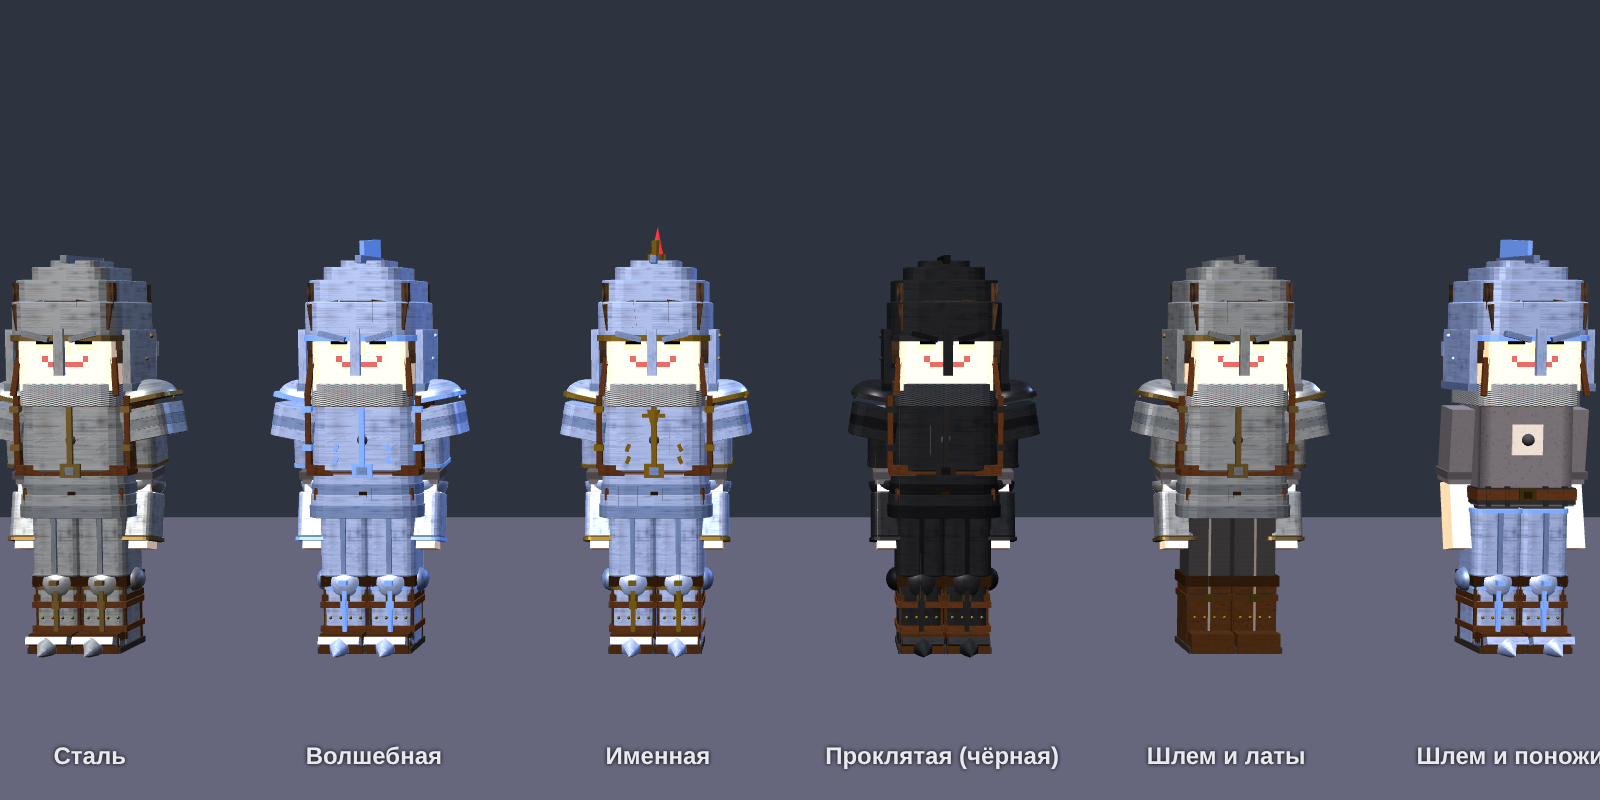
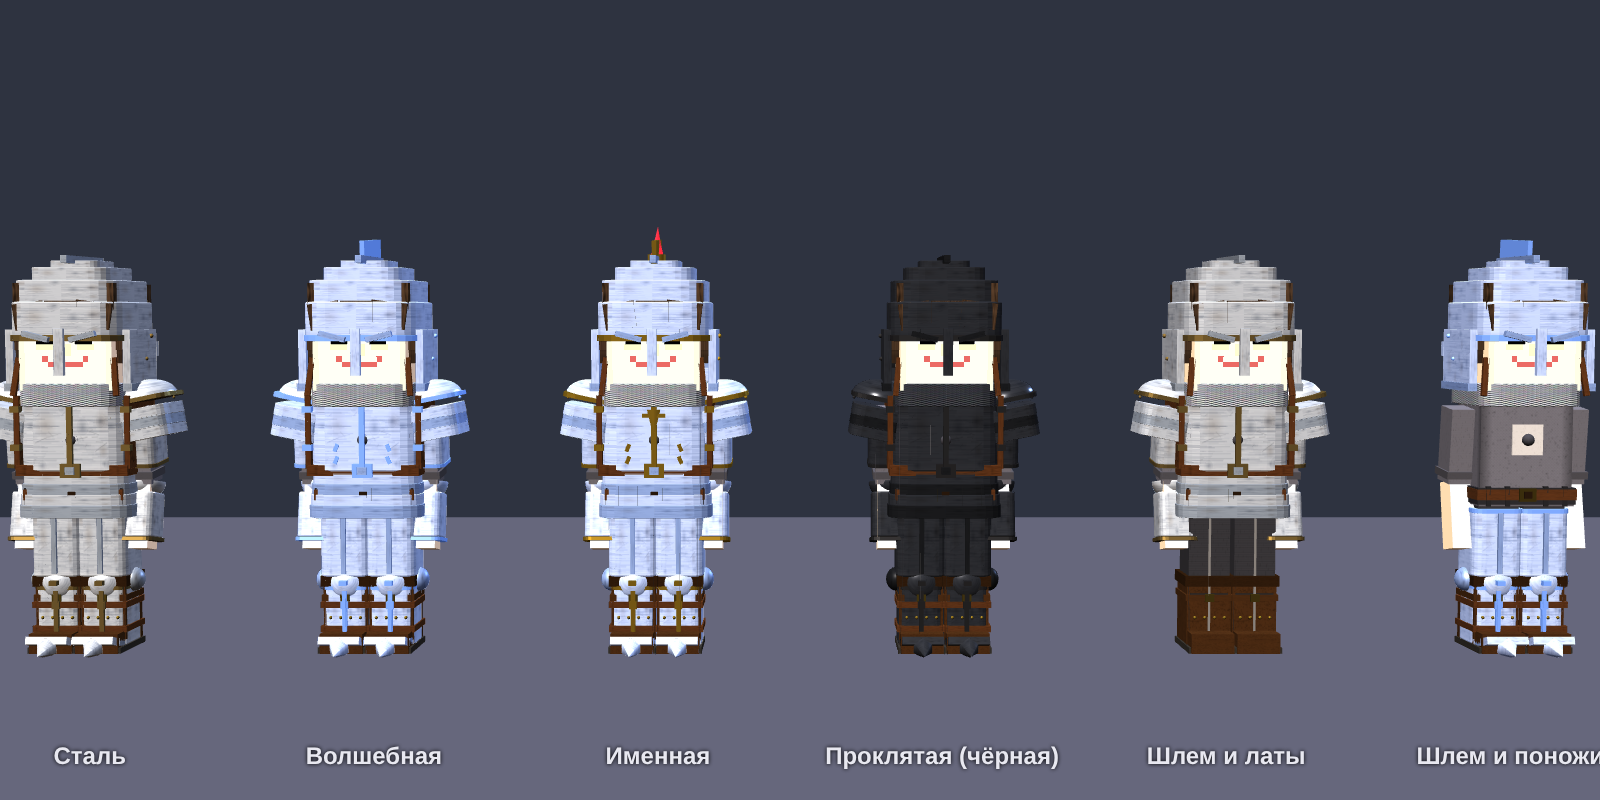
Броня (превью): светлее и глаже сталь

diff --git a/src/entities/KnightArmorLook.js b/src/entities/KnightArmorLook.js
@@ -65,10 +65,10 @@ const _m = new Map();
 const mk = (k, make) => { if (!_m.has(k)) { const m = make(); m.userData.shared = true; _m.set(k, m); } return _m.get(k); };
 /** The steel of a piece. code 1 plain, 2 magic (cool blue, a faint glow), 3 named; dk — blackened by the curse. */
 const steel = (code, dk = false) => mk(`s${code}${dk ? 'd' : ''}`, () => new THREE.MeshStandardMaterial({
-    color: dk ? 0x2a2c32 : code >= 2 ? 0xcfdcff : 0xbcc4ce, map: steelTex(), metalness: 0.5, roughness: 0.42, side: THREE.DoubleSide,
+    color: dk ? 0x2e3036 : code >= 2 ? 0xdce6ff : 0xdde2ea, map: steelTex(), metalness: 0.3, roughness: 0.3, side: THREE.DoubleSide,
     emissive: code >= 2 && !dk ? 0x2f5fd0 : 0x000000, emissiveIntensity: code >= 2 ? 0.22 : 0,
 }));
-const darkSteel = (code, dk = false) => mk(`k${code}${dk ? 'd' : ''}`, () => new THREE.MeshStandardMaterial({ color: dk ? 0x16171a : code >= 2 ? 0x8aa0cc : 0x8a94a0, map: steelTex(), metalness: 0.5, roughness: 0.5, side: THREE.DoubleSide, emissive: code >= 2 && !dk ? 0x1a3a90 : 0x000000, emissiveIntensity: code >= 2 ? 0.2 : 0 }));
+const darkSteel = (code, dk = false) => mk(`k${code}${dk ? 'd' : ''}`, () => new THREE.MeshStandardMaterial({ color: dk ? 0x1a1b1e : code >= 2 ? 0x9ab0dc : 0xa4aebc, map: steelTex(), metalness: 0.3, roughness: 0.38, side: THREE.DoubleSide, emissive: code >= 2 && !dk ? 0x1a3a90 : 0x000000, emissiveIntensity: code >= 2 ? 0.2 : 0 }));
 /** The trim: dull brass on plain steel, bright blue-white on magic, gold on named. */
 const trim = (code, dk = false) => mk(`t${code}${dk ? 'd' : ''}`, () => new THREE.MeshStandardMaterial(code === 3 ? { color: 0xe0b43c, metalness: 0.8, roughness: 0.32, emissive: 0x6a4a00, emissiveIntensity: 0.3 } : code === 2 ? { color: 0x9fc4ff, metalness: 0.6, roughness: 0.3, emissive: 0x3a6ae0, emissiveIntensity: 0.5 } : { color: dk ? 0x3a3a3e : 0xa88a4a, metalness: 0.7, roughness: 0.4 }));
 const mail = (dk) => mk(`m${dk ? 'd' : ''}`, () => new THREE.MeshLambertMaterial({ color: dk ? 0x55565c : 0xffffff, map: mailTex(), side: THREE.DoubleSide }));
